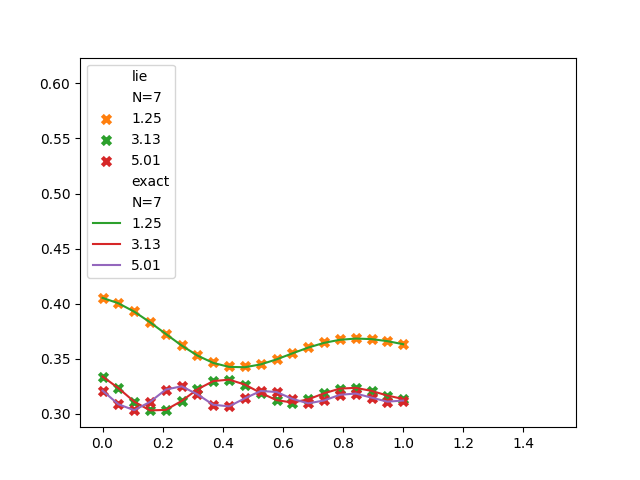
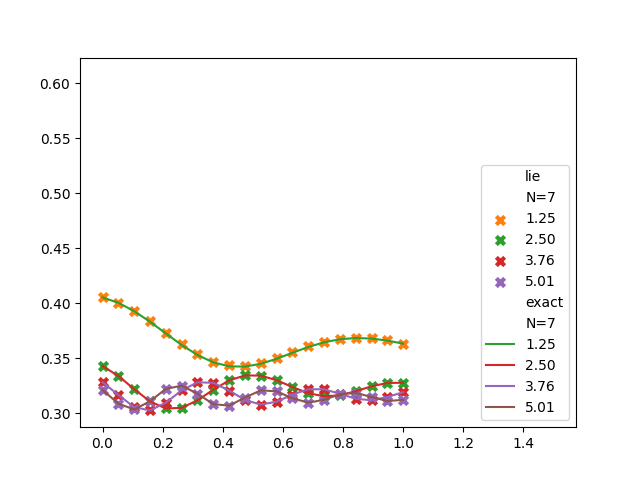
QDrift works!

diff --git a/ising/simulation/trotter/qdrift.py b/ising/simulation/trotter/qdrift.py
@@ -1,56 +1,19 @@
 from typing import Optional
+from functools import lru_cache
 import numpy as np
 from numpy.typing import NDArray
 
-from qiskit.quantum_info import Pauli
+from qiskit.quantum_info import Pauli, SparsePauliOp
 from qiskit.circuit import QuantumCircuit, Parameter
 from qiskit.quantum_info import Operator
-from qiskit.synthesis import LieTrotter
-from qiskit.synthesis.evolution.product_formula import evolve_pauli
+from qiskit.synthesis import LieTrotter, QDrift
 from qiskit.circuit.library import PauliEvolutionGate
-
-from ising.hamiltonian import Hamiltonian, trotter_reps
+from ising.hamiltonian import Hamiltonian, qdrift_count
 from ising.hamiltonian.hamiltonian import substitute_parameter
+from ising.simulation.trotter import Lie
 
 
-class QDrift(LieTrotter):
-    """Randomized fast evolution for Hamiltonian Simulation"""
-
-    def __init__(self) -> None:
-        """
-        Inputs:
-            - reps: The number of time steps.
-            - atomic_evolution: A function to construct the circuit for the evolution of single
-                Pauli string. Per default, a single Pauli evolution is decomopsed in a CX chain
-                and a single qubit Z rotation.
-        """
-        super().__init__(reps, False, "chain", None)
-
-    def synthesize(self, evolution) -> QuantumCircuit:
-        operators = evolution.operator
-        time = evolution.time
-
-        evolution_circuit = QuantumCircuit(operators[0].num_qubits)
-
-        if not isinstance(operators, list):
-            pauli_list = [
-                (Pauli(op), np.real(coeff)) for op, coeff in operators.to_list()
-            ]
-        else:
-            pauli_list = [(op, 1) for op in operators]
-
-        for _ in range(self.reps):
-            for op, coeff in pauli_list:
-                evolution_circuit.compose(
-                    self.atomic_evolution(op, coeff * time / self.reps),
-                    wrap=True,
-                    inplace=True,
-                )
-
-        return evolution_circuit
-
-
-class LieCircuit:
+class QDriftCircuit:
     def __init__(self, ham: Hamiltonian, h: Parameter, error: float):
         self.ham = ham
         self.num_qubits = ham.sparse_repr.num_qubits
@@ -59,6 +22,9 @@ class LieCircuit:
 
         self.h = h
         self.time = Parameter("t")
+        self.reps = Parameter("r")
+
+        self.synthesizer = Lie(reps=1)
 
     @property
     def ground_state(self) -> NDArray:
@@ -70,7 +36,9 @@ class LieCircuit:
 
     def subsitute_h(self, h_val: float) -> None:
         self.ham_subbed = substitute_parameter(self.ham, self.h, h_val)
-        self.lambd = sum(self.ham_subbed.sparse_repr.coeffs)
+        self.coeffs = []
+        self.paulis = []
+        self.sign_map = {}
 
     def construct_parametrized_circuit(self) -> None:
         if self.ham_subbed is None:
@@ -78,39 +46,56 @@ class LieCircuit:
                 "h value has not been substituted, qiskit does not support parametrized Hamiltonians."
             )
 
-        self.n = Parameter("n")
+        coeffs = []
+        paulis = []
+        sign_map = {}
+        for op, coeff in self.ham_subbed.sparse_repr.to_list():
+            if coeff.real < 0:
+                sign_map[Pauli(op)] = -1
+                coeff = -coeff
+            else:
+                sign_map[Pauli(op)] = 1
 
-        self.evo_time = self.lambd * self.time / self.n
+            coeffs.append(coeff.real)
+            paulis.append(Pauli(op))
 
-        evo_gate1 = PauliEvolutionGate(
-            self.ham_subbed.sparse_repr,
-            time=self.time / self.reps,
-            synthesis=Lie(reps=1),
+        self.coeffs = np.abs(np.array(coeffs))
+        self.lambd = sum(self.coeffs)
+        self.paulis = paulis
+        self.sign_map = sign_map
+        self.pauli_mapping = self.synthesizer.parameterized_map(self.paulis, self.time)
+
+    @lru_cache
+    def pauli_matrix(self, pauli: Pauli, time: float) -> NDArray:
+        circuit = self.pauli_mapping[pauli].assign_parameters(
+            {self.time: self.sign_map[pauli] * time}
         )
-        circ_h_sub = QuantumCircuit(self.num_qubits)
-        circ_h_sub.append(evo_gate1, range(self.num_qubits))
-        self.para_circuit = circ_h_sub
+        return Operator.from_circuit(circuit).reverse_qargs().data
 
     def matrix(self, time: float) -> NDArray:
         if self.ham_subbed is None:
             raise ValueError("h value has not been substituted.")
-        if self.para_circuit is None:
+        if len(self.pauli_mapping) == 0:
             raise ValueError("Para circuit has not been constructed.")
-        reps = trotter_reps(self.ham_subbed.sparse_repr, time, self.error)
 
-        circuit = self.para_circuit.assign_parameters(
-            {self.reps: reps, self.time: time}
-        )
-        assert circuit is not None
+        count = qdrift_count(self.lambd, time, self.error)
+        evolution_time = self.lambd * time / count
 
-        return Operator.from_circuit(circuit).power(reps).data
+        final_op = np.identity(2**self.num_qubits)
+        indices = list(range(len(self.paulis)))
+
+        samples = np.random.choice(indices, p=self.coeffs / self.lambd, size=count)
+        for sample in samples:
+            p = self.pauli_matrix(self.paulis[sample], evolution_time)
+            final_op = np.dot(p, final_op)
+
+        return final_op
 
     def get_observations(
         self, rho_init: NDArray, observable: NDArray, times: list[float]
     ):
         results = []
         for time in times:
-            n_val = 2 * (self.lambd**2) * (time**2) / self.error
             unitary = self.matrix(time)
             rho_final = unitary @ rho_init @ unitary.conj().T
             result = np.trace(np.abs(observable @ rho_final))

diff --git a/ising/simulation/trotter/lie.py b/ising/simulation/trotter/lie.py
@@ -1,4 +1,4 @@
-from typing import Optional
+from typing import Optional, Union
 from functools import lru_cache
 import numpy as np
 from numpy.typing import NDArray
@@ -26,9 +26,14 @@ class Lie(LieTrotter):
         super().__init__(reps, False, "chain", None)
 
     def parameterized_map(
-        self, operator: SparsePauliOp, time
+        self, operator: Union[list[Pauli], SparsePauliOp], time
     ) -> dict[Pauli, QuantumCircuit]:
-        pauli_list = [(Pauli(op), np.real(coeff)) for op, coeff in operator.to_list()]
+        if isinstance(operator, list):
+            pauli_list = [(op, 1) for op in operator]
+        else:
+            pauli_list = [
+                (Pauli(op), np.real(coeff)) for op, coeff in operator.to_list()
+            ]
 
         pauli_circuits = {}
 

diff --git a/ising/simulation/trotter/run_trotter.py b/ising/simulation/trotter/run_trotter.py
@@ -7,7 +7,7 @@ from qiskit.circuit import Parameter
 from ising.hamiltonian import parametrized_ising
 from ising.observables import overall_magnetization
 from ising.utils import read_input_file, close_state
-from ising.simulation.trotter import LieCircuit
+from ising.simulation.trotter import LieCircuit, QDriftCircuit
 
 
 def run_trotter(paras):
@@ -24,8 +24,7 @@ def run_trotter(paras):
     if method == "lie":
         circuit_synthesis = LieCircuit
     if method == "qdrift":
-        # TODO
-        circuit_synthesis = LieCircuit
+        circuit_synthesis = QDriftCircuit
     else:
         circuit_synthesis = LieCircuit
 
@@ -83,4 +82,5 @@ def test_main():
 
 
 if __name__ == "__main__":
+    np.random.seed(42)
     main()

diff --git a/ising/hamiltonian/ising_one.py b/ising/hamiltonian/ising_one.py
@@ -18,6 +18,13 @@ def trotter_reps(ham: SparsePauliOp, time: float, eps: float) -> int:
     return final
 
 
+def qdrift_count(lambd: float, time: float, eps: float) -> int:
+    numr = np.abs(2 * (lambd * time) ** 2)
+    dr = eps
+    final = int(np.ceil(numr / dr))
+    return final
+
+
 def parametrized_ising(qubits: int, h: Union[Parameter, float]) -> Hamiltonian:
     """
     One dimensional Transverse-field Ising model parameterized by external

diff --git a/ising/hamiltonian/__init__.py b/ising/hamiltonian/__init__.py
@@ -1,5 +1,11 @@
-from .ising_one import parametrized_ising, trotter_reps
+from .ising_one import parametrized_ising, trotter_reps, qdrift_count
 from .hamiltonian import Hamiltonian, substitute_parameter
 
 
-__all__ = ["parametrized_ising", "trotter_reps", "Hamiltonian", "substitute_parameter"]
+__all__ = [
+    "parametrized_ising",
+    "trotter_reps",
+    "Hamiltonian",
+    "substitute_parameter",
+    "qdrift_count",
+]

diff --git a/ising/simulation/trotter/__init__.py b/ising/simulation/trotter/__init__.py
@@ -1,5 +1,5 @@
 from .lie import Lie, LieCircuit
-from .qdrift import QDrift
+from .qdrift import QDriftCircuit
 
 
-__all__ = ["Lie", "QDrift", "LieCircuit"]
+__all__ = ["Lie", "QDriftCircuit", "LieCircuit"]
